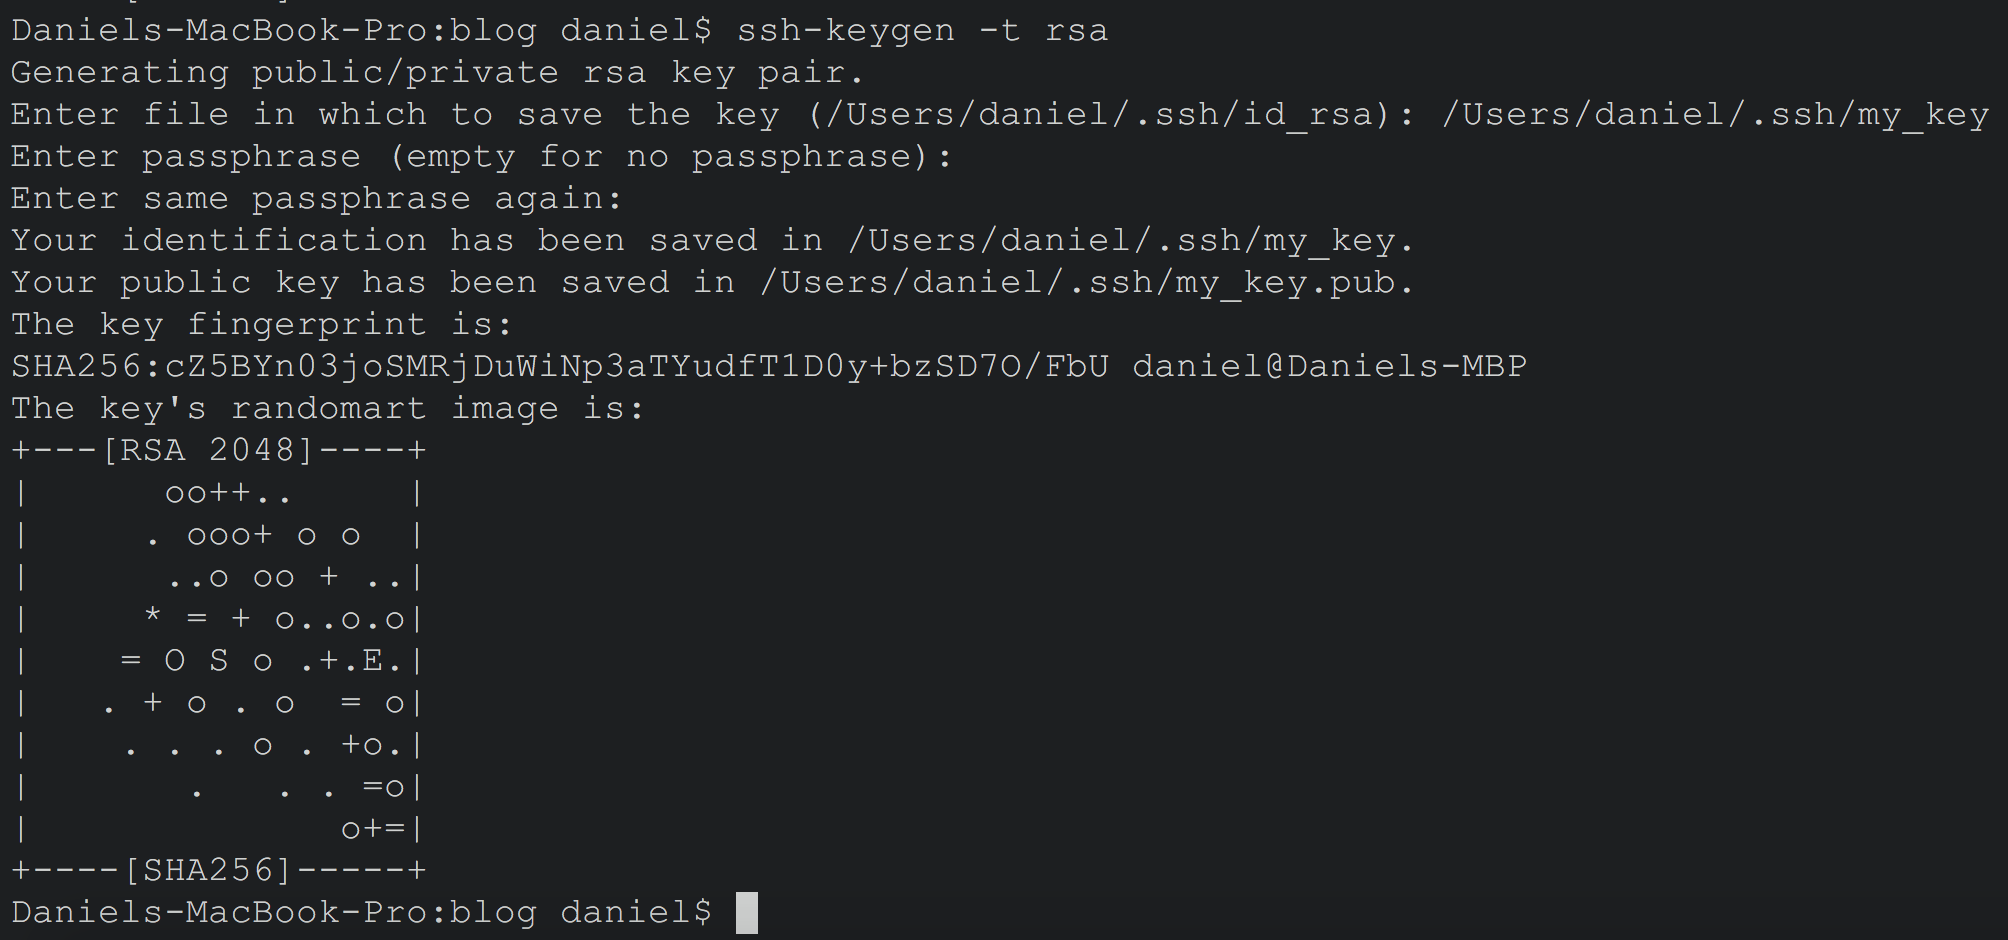
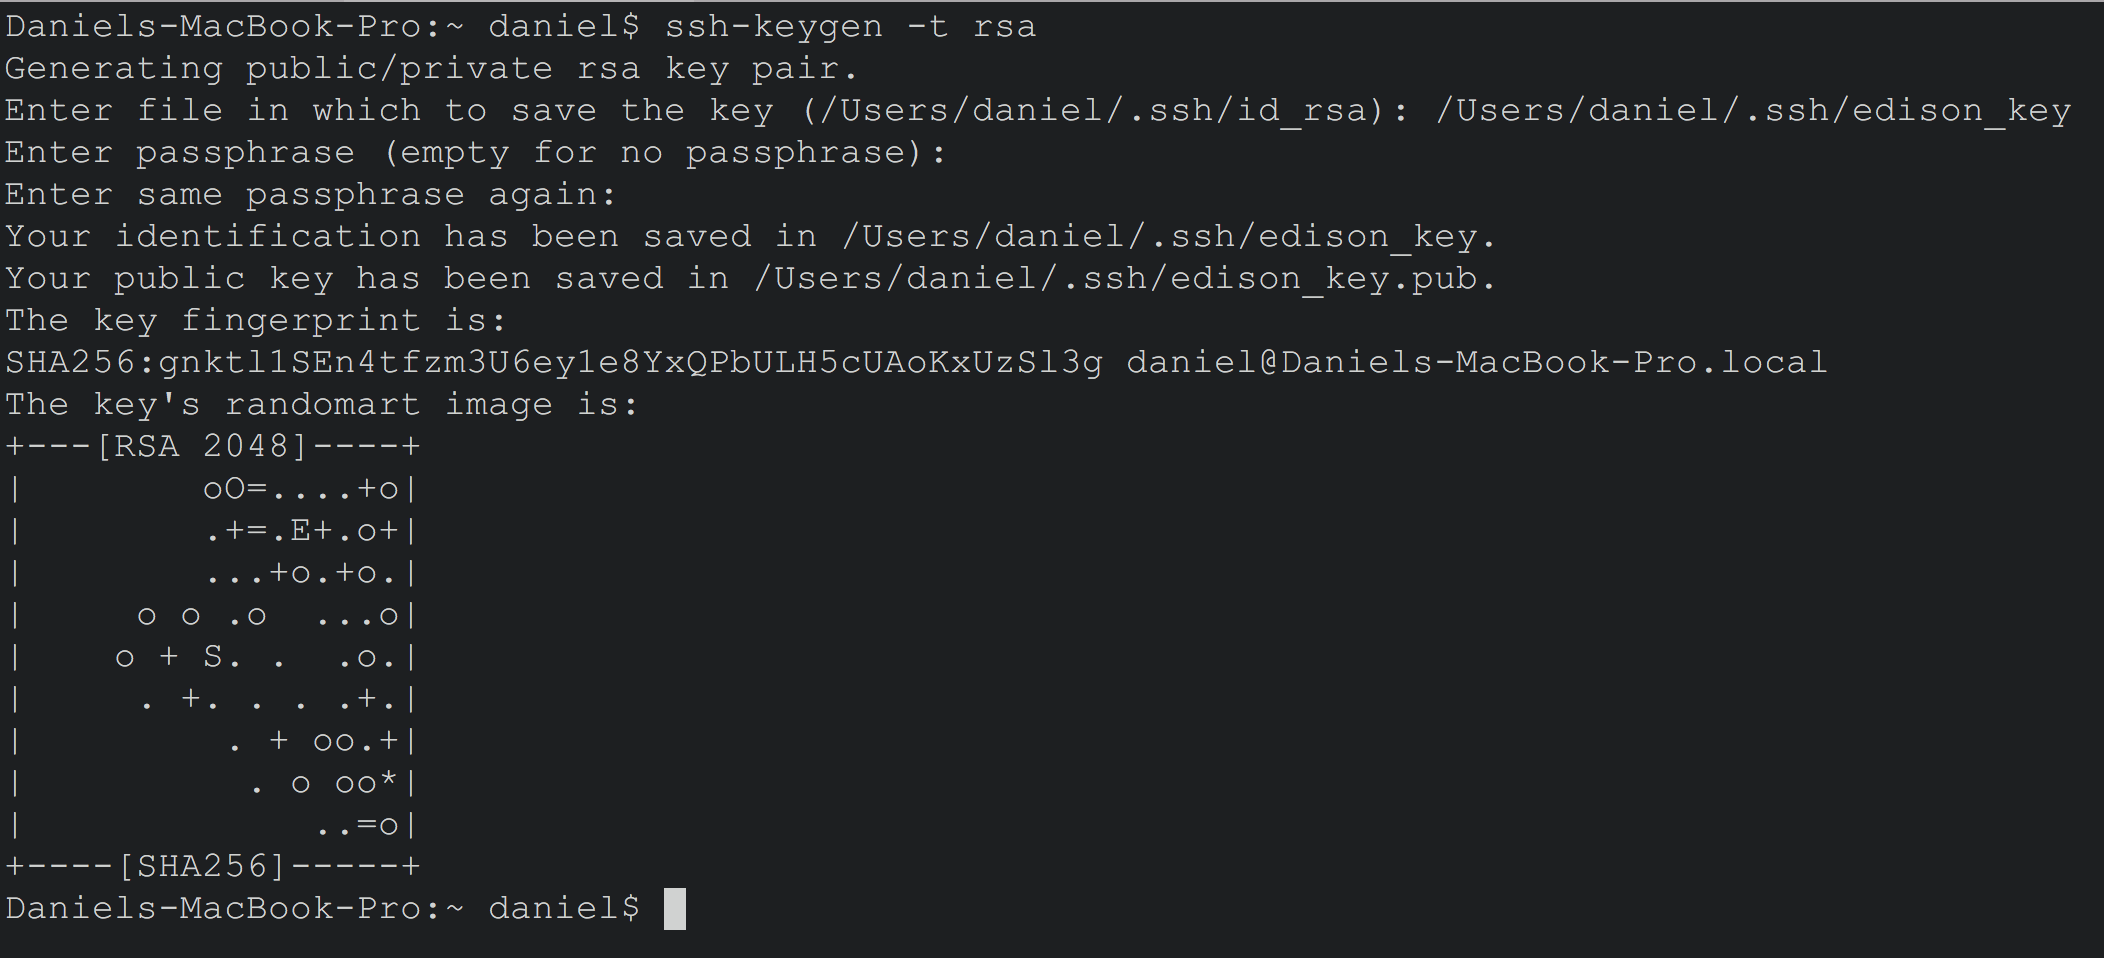
Site updated: 2017-06-28 22:33:22

Changed region(s): [[0.0, 0.0, 0.988, 0.617], [0.0, 0.617, 0.4014, 1.0]]

diff --git a/2017/06/25/SSH-Public-Key-authentication-to-your-Edison/index.html b/2017/06/25/SSH-Public-Key-authentication-to-your-Edison/index.html
@@ -1,16 +1,21 @@
 <!DOCTYPE html><html lang="en"><head><meta charset="utf-8"><meta name="X-UA-Compatible" content="IE=edge"><title> SSH Public Key authentication to your Edison · d' dev panda ヽ(￣(ｴ)￣)ﾉ</title><meta name="description" content="SSH Public Key authentication to your Edison - Daniel Conde"><meta name="viewport" content="width=device-width, initial-scale=1"><link rel="icon" href="/favicon.png"><link rel="stylesheet" href="/css/apollo.css"><link rel="search" type="application/opensearchdescription+xml" href="https://www.devpanda.me/atom.xml" title="d' dev panda ヽ(￣(ｴ)￣)ﾉ"></head><body><div class="wrap"><header><a href="/" class="logo-link"><img src="/images/logo.jpg" alt="logo"></a><a href="https://stackoverflow.com/users/954852/daniel" target="_blank" class="so-flair"><img src="https://stackoverflow.com/users/flair/954852.png?theme=clean" width="208" height="58" alt="profile for Daniel at Stack Overflow, Q&amp;amp;A for professional and enthusiast programmers" title="profile for Daniel at Stack Overflow, Q&amp;amp;A for professional and enthusiast programmers"></a><ul class="nav nav-list"><li class="nav-list-item"><a href="/" target="_self" class="nav-list-link">BLOG</a></li><li class="nav-list-item"><a href="/archives/" target="_self" class="nav-list-link">ARCHIVE</a></li><li class="nav-list-item"><a href="https://github.com/danielcondemarin" target="_blank" class="nav-list-link">GITHUB</a></li><li class="nav-list-item"><a href="/atom.xml" target="_self" class="nav-list-link">RSS</a></li></ul></header><main class="container"><div class="post"><article class="post-block"><h1 class="post-title">SSH Public Key authentication to your Edison</h1><div class="post-info">Jun 25, 2017</div><div class="post-content"><p>I believe the best developers are the laziest ones, those who <em>do more by doing less</em>. That includes not having to type in your password every time you want to login to your <strong>Intel Edison</strong>.</p>
 <p>If you have worked with <strong>*nix</strong> systems, you might be familiar with SSH Public Key authentication. If you don’t know what that is, I strongly recommend having a read of this <a href="http://blakesmith.me/2010/02/08/understanding-public-key-private-key-concepts.html" target="_blank" rel="external">article</a>, it is by far one of the best explanations I’ve seen. </p>
 <p>In a nutshell, we will be generating a private and a public key. Then we will copy ONLY the public key to the <strong>Edison</strong>. That way you will be able to login to the Edison automatically as long as you have the private key.</p>
-<p>Let’s start:</p>
-<ul>
-<li><p>Open a terminal:</p>
+<p>Let’s start, first open a terminal, then run the following commands:</p>
 <ol>
-<li><p>Generate private / public key pair via <a href="https://linux.die.net/man/1/ssh-keygen" target="_blank" rel="external">ssh-keygen</a> </p>
-<p><code>ssh-keygen -t rsa</code></p>
+<li><p>Generate private / public key pair via <a href="https://linux.die.net/man/1/ssh-keygen" target="_blank" rel="external">ssh-keygen</a>:</p>
+<p> <code>ssh-keygen -t rsa</code></p>
+<p> I named the key “<strong>edison_key</strong>“, but feel free to use your own name. When you’re prompted for the <strong>passphrase</strong> just press enter, to avoid creating one. It should all look like this:</p>
+<p> <img src="/images/ssh-keygen.png" alt=""></p>
+</li>
+<li><p>Copy the public key (<strong>edison_key.pub</strong>) to your intel edison:</p>
+<p> <code>cat /Users/daniel/.ssh/edison_key.pub | ssh root@192.168.0.10 &quot;mkdir -p ~/.ssh &amp;&amp; cat &gt;&gt;  ~/.ssh/authorized_keys&quot;</code></p>
+<p> Make sure you replace <em>/Users/daniel/.ssh/edison_key.pub</em> with your own path. Also, I’m assuming the Edison is accessible via <strong>192.168.0.10</strong> with SSH enabled.</p>
+</li>
+<li><p>That’s it! Let’s connect now:</p>
+<p><code>ssh root@192.168.0.10 -i /Users/daniel/.ssh/edison_key</code></p>
+<p><img src="/images/login-via-pub.png" alt=""></p>
 </li>
 </ol>
-</li>
-</ul>
-<p>I named the key “my_key”, but feel free to use your own name. When you’re prompted for the <strong>passphrase</strong> just press enter, to avoid creating one. It should all look like this:</p>
-<p><img src="/images/ssh-keygen.png" alt=""></p>
+<p>Tip: If you want to avoid specifying the private key <em>… -i /Users/daniel/.ssh/edison_key</em>, just use the default name when generating the key on step <em>1</em>, which is id_rsa.</p>
 </div></article></div></main><footer><div class="paginator"></div><div class="copyright"><p>© 2015 - 2017 <a href="https://www.devpanda.me">Daniel Conde</a>, powered by <a href="https://hexo.io/" target="_blank">Hexo</a> and <a href="https://github.com/pinggod/hexo-theme-apollo" target="_blank">hexo-theme-apollo</a>.</p></div></footer></div><script async src="//cdn.bootcss.com/mathjax/2.7.0/MathJax.js?config=TeX-MML-AM_CHTML" integrity="sha384-crwIf/BuaWM9rM65iM+dWFldgQ1Un8jWZMuh3puxb8TOY9+linwLoI7ZHZT+aekW" crossorigin="anonymous"></script><script>(function(b,o,i,l,e,r){b.GoogleAnalyticsObject=l;b[l]||(b[l]=function(){(b[l].q=b[l].q||[]).push(arguments)});b[l].l=+new Date;e=o.createElement(i);r=o.getElementsByTagName(i)[0];e.src='//www.google-analytics.com/analytics.js';r.parentNode.insertBefore(e,r)}(window,document,'script','ga'));ga('create',"UA-65933410-1",'auto');ga('send','pageview');</script></body></html>
